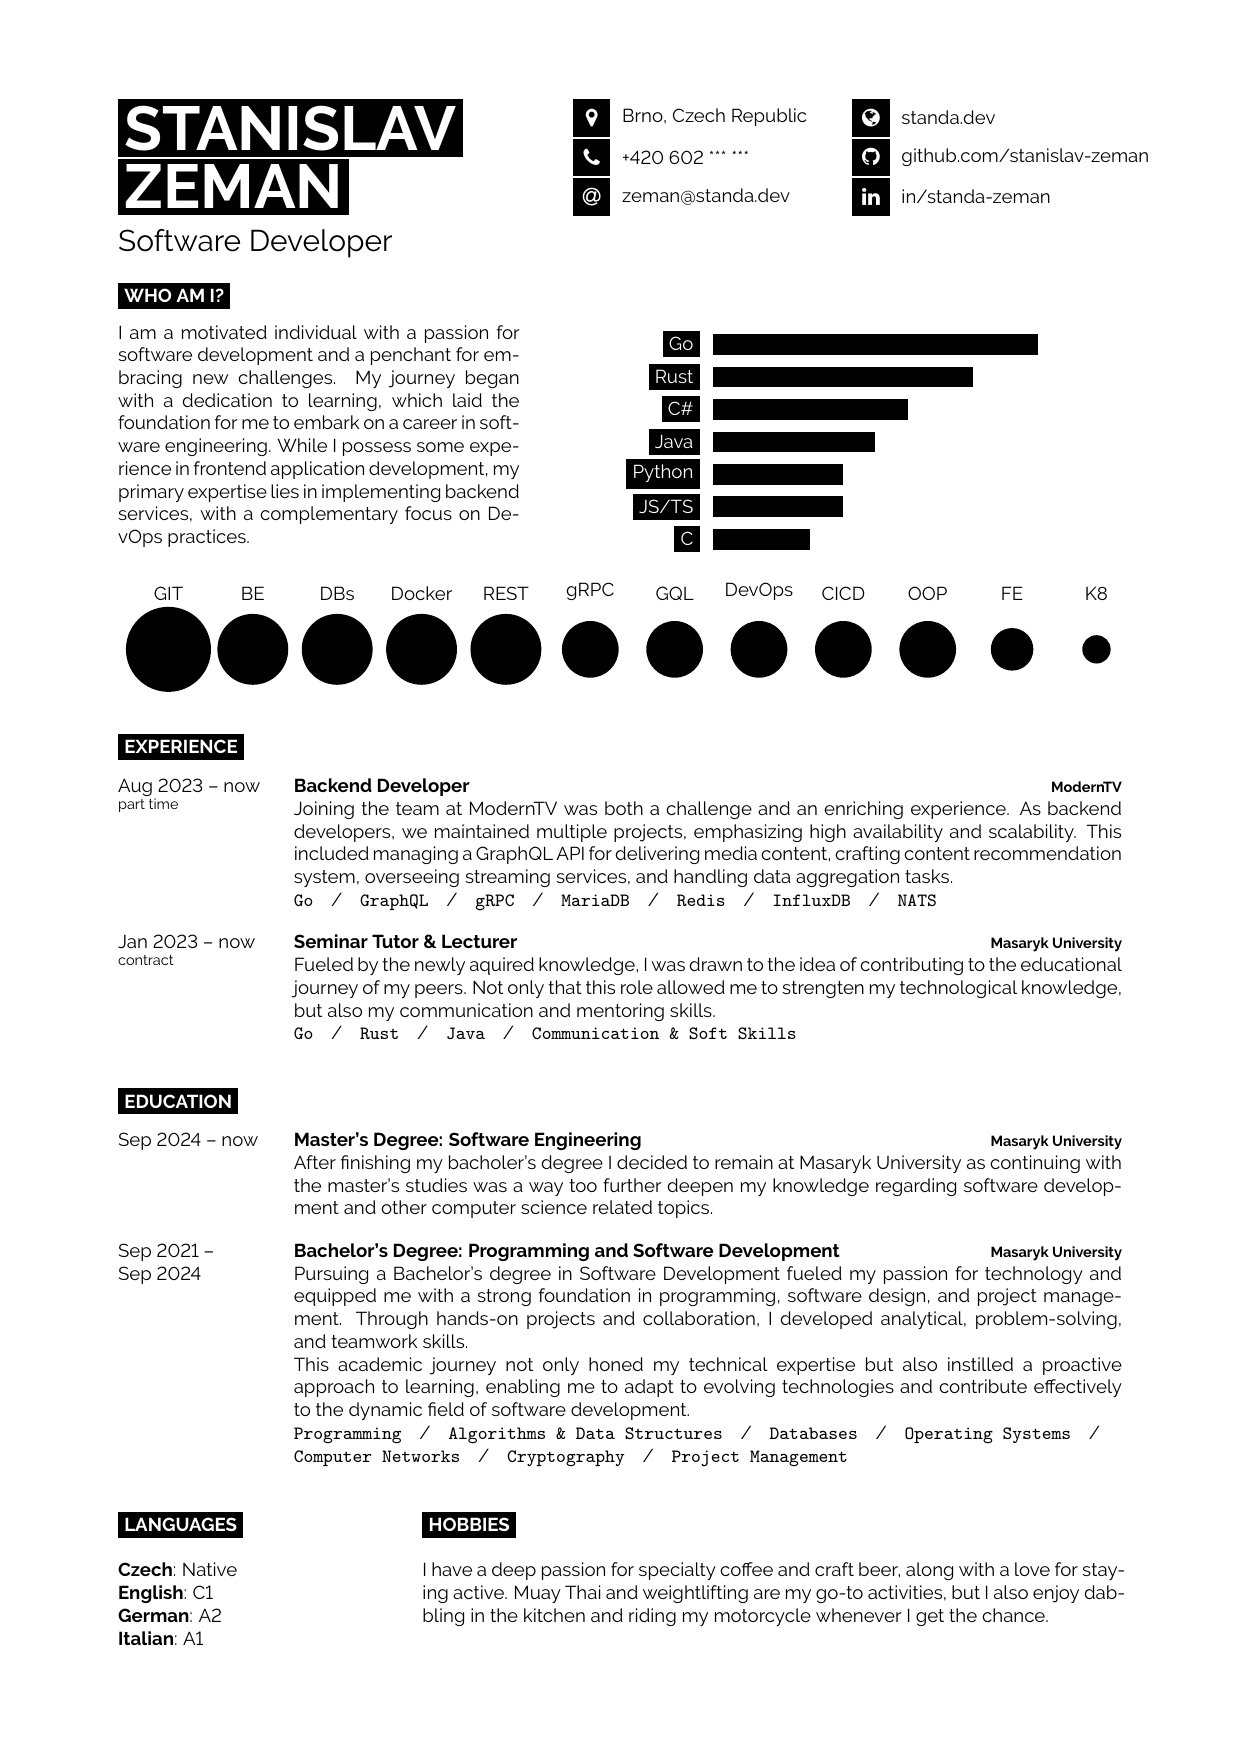
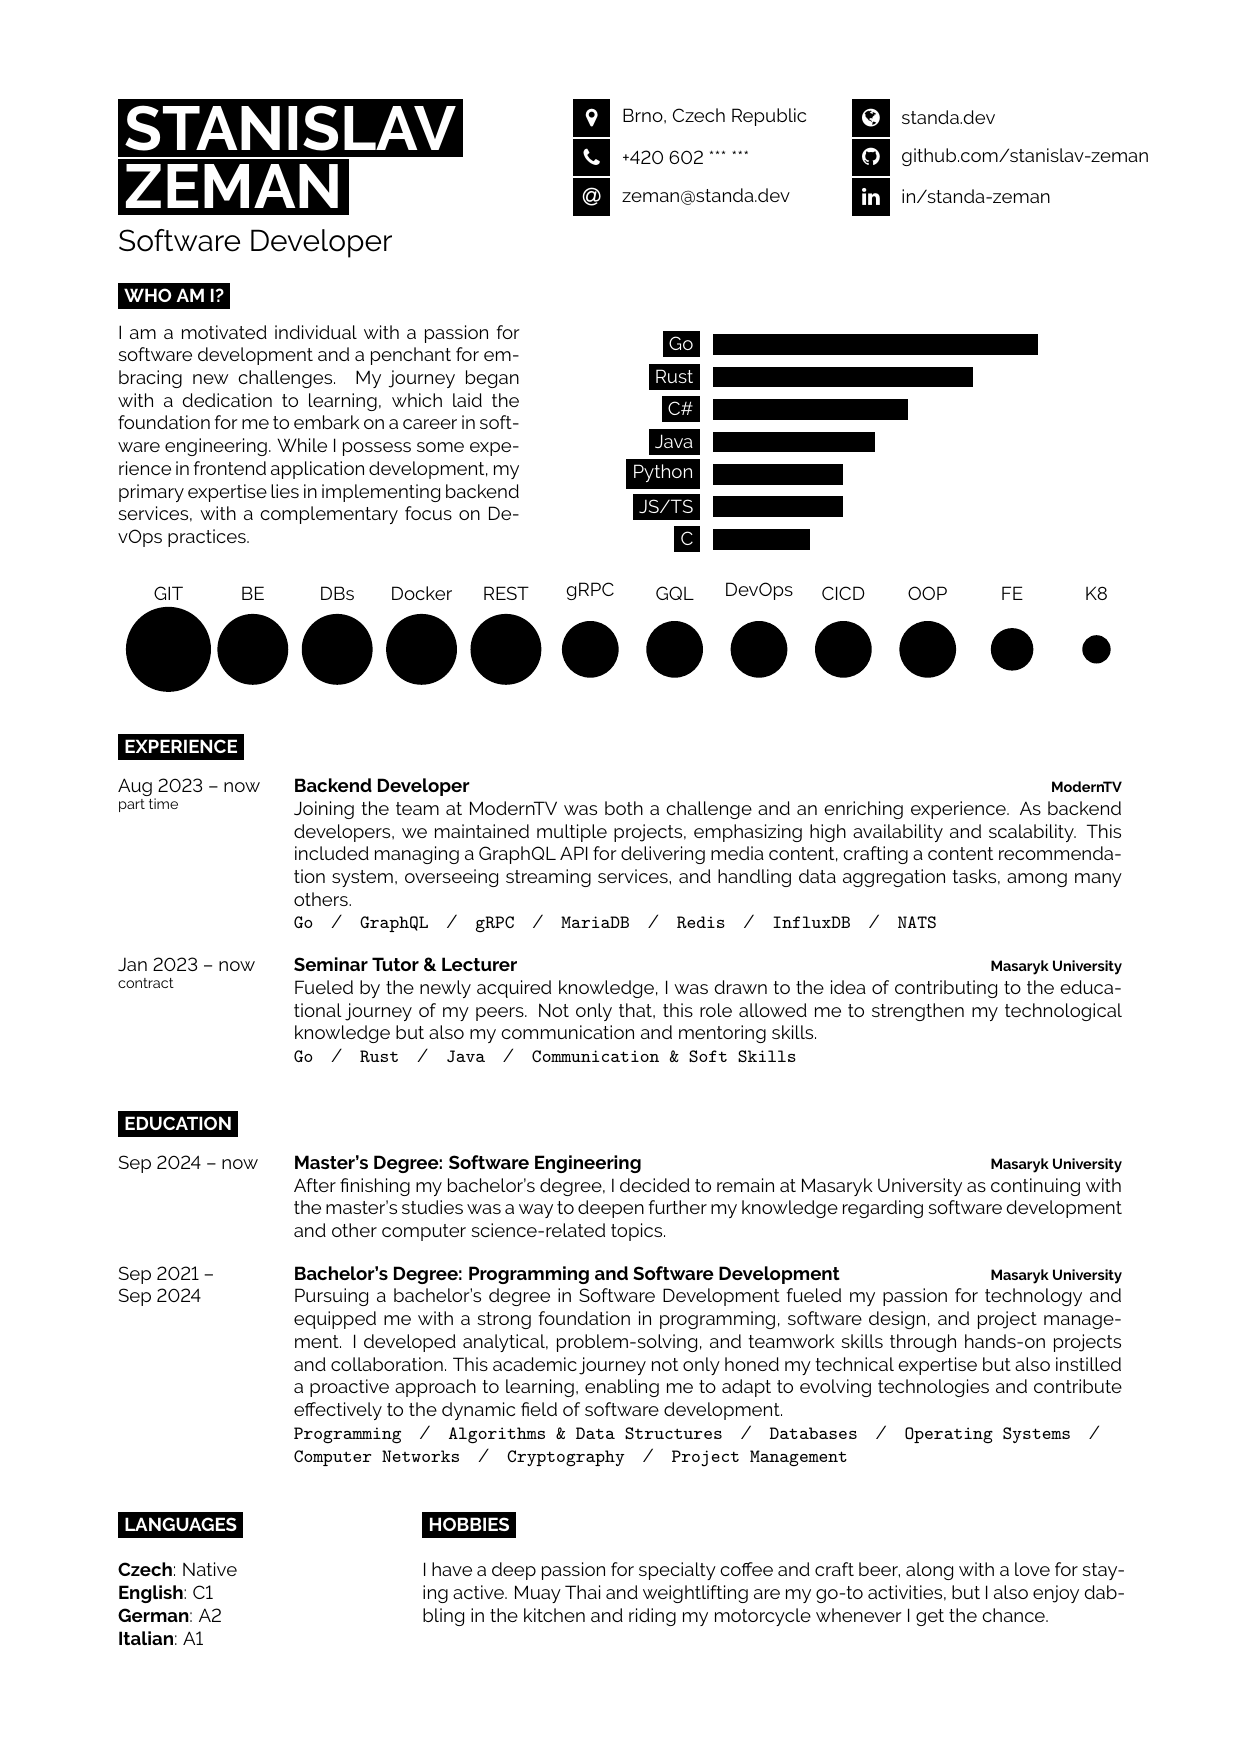
feat: adjust wording for text

Changed region(s): [[0.0919, 0.6157, 0.9186, 0.8312], [0.0919, 0.4618, 0.9186, 0.6157], [0.0919, 0.7081, 0.1531, 0.7389]]

diff --git a/cv.tex b/cv.tex
@@ -59,12 +59,12 @@
 		{Aug 2023 -- now\\\footnotesize{part time}}
 		{Backend Developer}
 		{ModernTV}
-		{Joining the team at ModernTV was both a challenge and an enriching experience. As backend developers, we maintained multiple projects, emphasizing high availability and scalability. This included managing a GraphQL API for delivering media content, crafting content recommendation system, overseeing streaming services, and handling data aggregation tasks.\\ \texttt{Go}\slashsep\texttt{GraphQL}\slashsep\texttt{gRPC}\slashsep\texttt{MariaDB}\slashsep\texttt{Redis}\slashsep\texttt{InfluxDB}\slashsep\texttt{NATS}}
+		{Joining the team at ModernTV was both a challenge and an enriching experience. As backend developers, we maintained multiple projects, emphasizing high availability and scalability. This included managing a GraphQL API for delivering media content, crafting a content recommendation system, overseeing streaming services, and handling data aggregation tasks, among many others.\\ \texttt{Go}\slashsep\texttt{GraphQL}\slashsep\texttt{gRPC}\slashsep\texttt{MariaDB}\slashsep\texttt{Redis}\slashsep\texttt{InfluxDB}\slashsep\texttt{NATS}}
 	\entry
 		{Jan 2023 -- now\\\footnotesize{contract}}
         {Seminar Tutor \& Lecturer}
 		{Masaryk University}
-		{Fueled by the newly aquired knowledge, I was drawn to the idea of contributing to the educational journey of my peers. Not only that this role allowed me to strengten my technological knowledge, but also my communication and mentoring skills.\\ \texttt{Go}\slashsep\texttt{Rust}\slashsep\texttt{Java}\slashsep\texttt{Communication \& Soft Skills}}
+		{Fueled by the newly acquired knowledge, I was drawn to the idea of contributing to the educational journey of my peers. Not only that, this role allowed me to strengthen my technological knowledge but also my communication and mentoring skills.\\ \texttt{Go}\slashsep\texttt{Rust}\slashsep\texttt{Java}\slashsep\texttt{Communication \& Soft Skills}}
 \end{entrylist}
 
 \cvsect{Education}
@@ -74,7 +74,7 @@
 		{Sep 2024 -- now}
 		{Master's Degree: Software Engineering}
 		{Masaryk University}
-        {After finishing my bacholer's degree I decided to remain at Masaryk University as continuing with the master's studies was a way too further deepen my knowledge regarding software development and other computer science related topics.}
+        {After finishing my bachelor's degree, I decided to remain at Masaryk University as continuing with the master's studies was a way to deepen further my knowledge regarding software development and other computer science-related topics.}
 \end{entrylist}
 
 \begin{entrylist}
@@ -82,7 +82,7 @@
 		{Sep 2021 -- \\ Sep 2024}
 		{Bachelor's Degree: Programming and Software Development}
 		{Masaryk University}
-        {Pursuing a Bachelor's degree in Software Development fueled my passion for technology and equipped me with a strong foundation in programming, software design, and project management. Through hands-on projects and collaboration, I developed analytical, problem-solving, and teamwork skills.\\ This academic journey not only honed my technical expertise but also instilled a proactive approach to learning, enabling me to adapt to evolving technologies and contribute effectively to the dynamic field of software development.\\ \texttt{Programming}\slashsep\texttt{Algorithms \& Data Structures}\slashsep\texttt{Databases}\slashsep\texttt{Operating Systems}\slashsep\texttt{Computer Networks}\slashsep\texttt{Cryptography}\slashsep\texttt{Project Management}}
+        {Pursuing a bachelor's degree in Software Development fueled my passion for technology and equipped me with a strong foundation in programming, software design, and project management. I developed analytical, problem-solving, and teamwork skills through hands-on projects and collaboration. This academic journey not only honed my technical expertise but also instilled a proactive approach to learning, enabling me to adapt to evolving technologies and contribute effectively to the dynamic field of software development.\\ \texttt{Programming}\slashsep\texttt{Algorithms \& Data Structures}\slashsep\texttt{Databases}\slashsep\texttt{Operating Systems}\slashsep\texttt{Computer Networks}\slashsep\texttt{Cryptography}\slashsep\texttt{Project Management}}
 \end{entrylist}
 
 \begin{minipage}[t]{0.3\textwidth}
